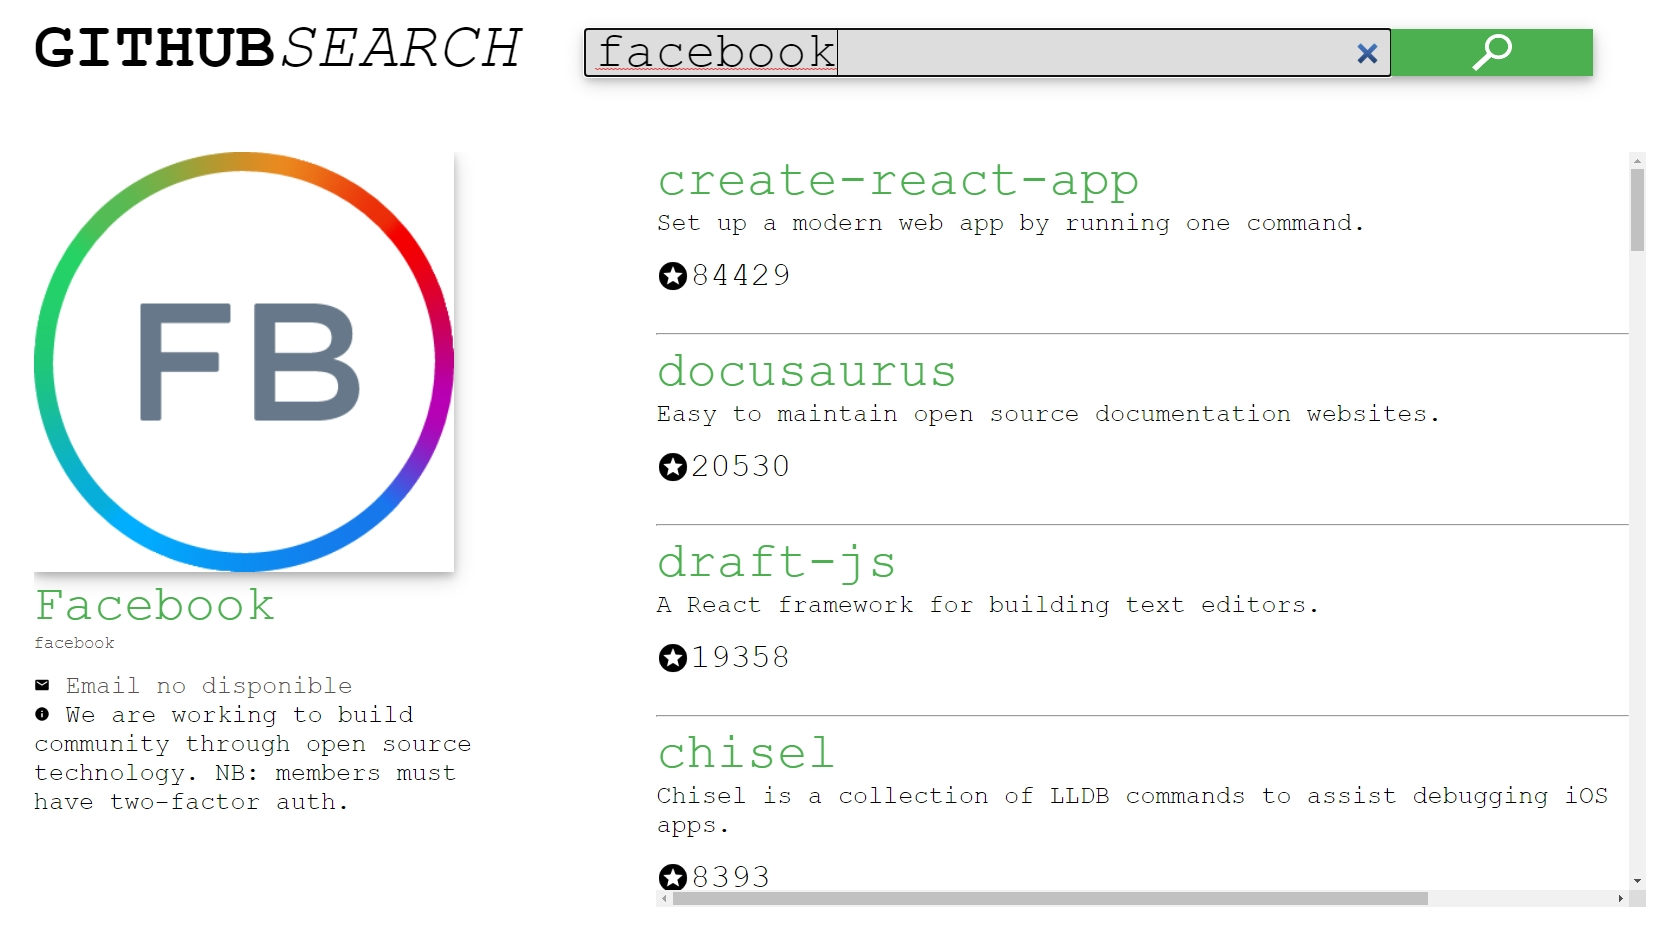
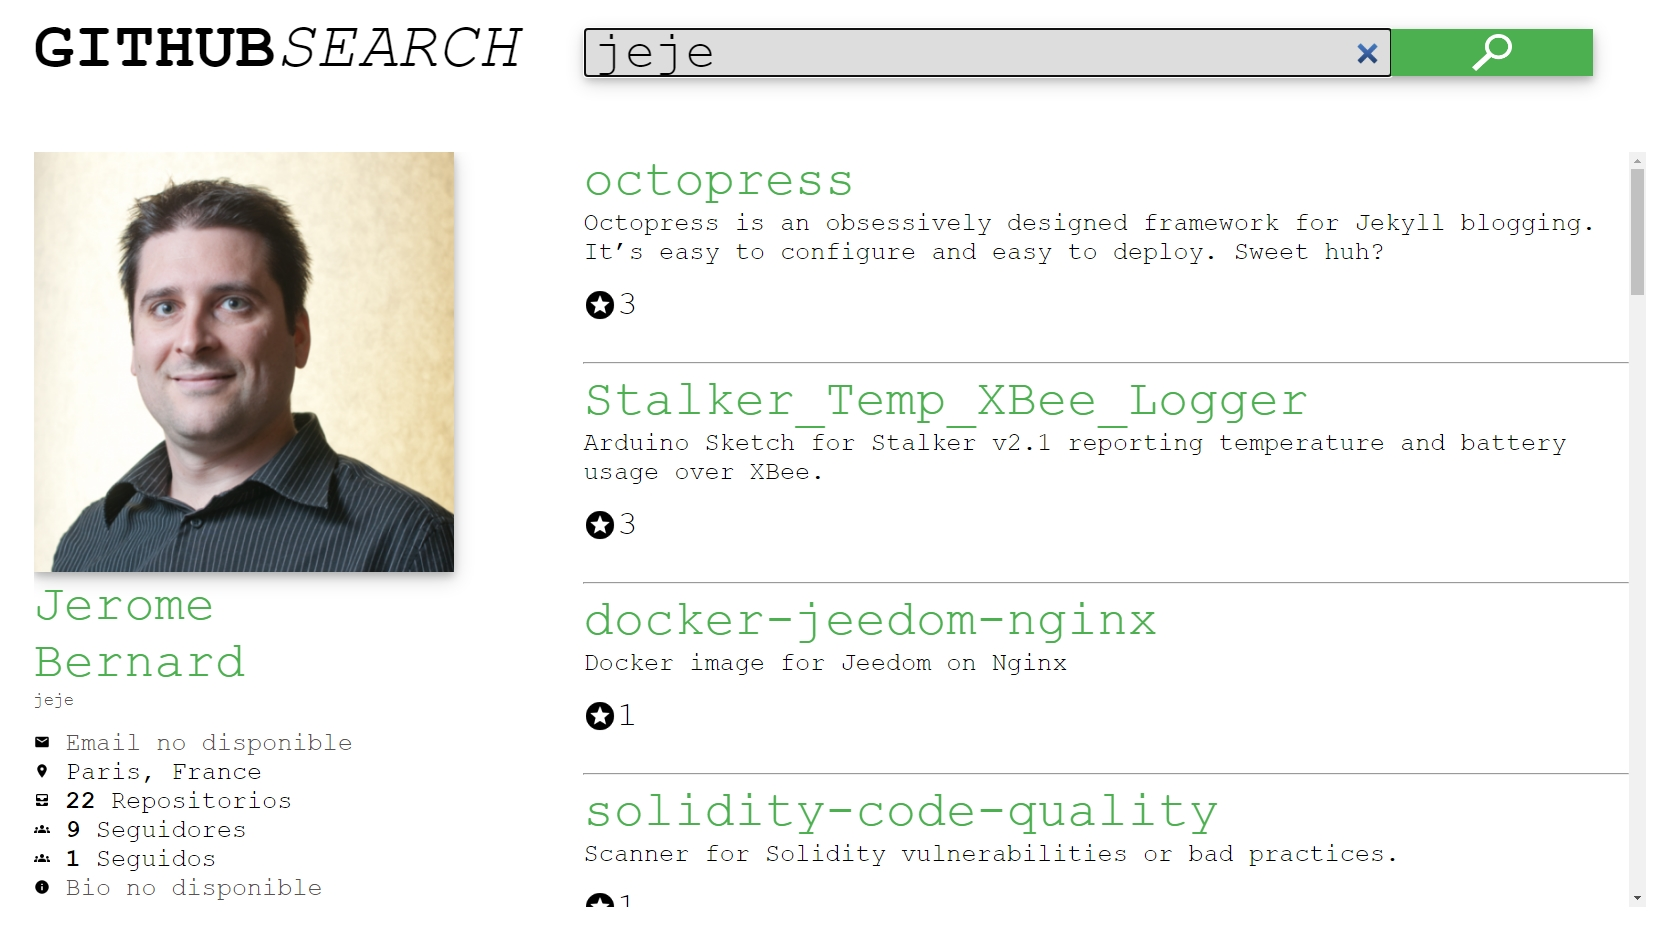
Add user info from api and update screenshot images

diff --git a/src/app/components/details/details.component.html b/src/app/components/details/details.component.html
@@ -30,6 +30,10 @@
             <br>
             <p class="text1"><img class="icon1" src="../../../assets/email-icon.png" alt="email-icon">
                 {{userInfo.email}}<span *ngIf="!userInfo.email" class="muted">Email no disponible</span></p>
+            <p class="text1"><img class="icon1" src="../../../assets/location-icon.png" alt="email-icon"> {{userInfo.location}}<span *ngIf="!userInfo.location" class="muted">Locación no disponible</span></p>
+            <p class="text1"><img class="icon1" src="../../../assets/inbox-icon.png" alt="email-icon"><strong> {{userInfo.public_repos}}</strong> Repositorios</p>
+            <p class="text1"><img class="icon1" src="../../../assets/people-icon.png" alt="email-icon"><strong> {{userInfo.followers}}</strong> Seguidores</p>
+            <p class="text1"><img class="icon1" src="../../../assets/people-icon.png" alt="email-icon"><strong> {{userInfo.following}}</strong> Seguidos</p>
             <p class="text1"><img class="icon1" src="../../../assets/info-icon.png" alt="info-icon">
                 {{userInfo.bio}}<span *ngIf="!userInfo.bio" class="muted">Bio no disponible</span></p>
         </div>

diff --git a/src/app/models/user.model.ts b/src/app/models/user.model.ts
@@ -7,4 +7,6 @@ export interface User {
     avatar_url: string;
     followers: number;
     following: number;
+    public_repos: number;
+    location: string;
 }
